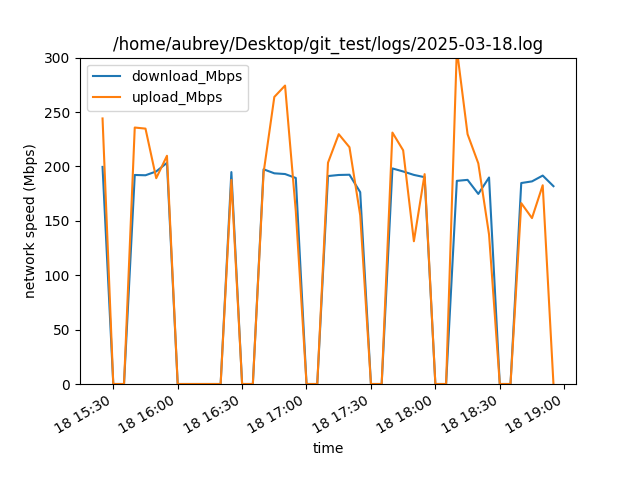
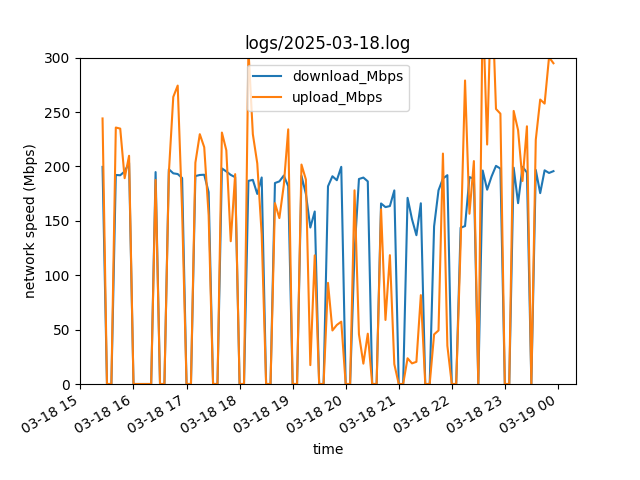
added by process_speedtest_log.sh

diff --git a/test.py b/test.py
@@ -4,12 +4,11 @@ import pandas as pd
 import matplotlib.pyplot as plt
 import matplotlib.dates as md
 import glob
-
-LOG_PATH = '/home/aubrey/Desktop/git_test/logs/2025-03-19.log'
+import os
 
 def process_log(log_path):
     # Read the log file
-    with open(LOG_PATH) as f:
+    with open(log_path) as f:
         lines = f.readlines()
 
     # Parse the log data, extracting timestamp, download_Mbps, and upload_Mbps using regular expressions.
@@ -37,7 +36,7 @@ def process_log(log_path):
     df['HM'] = df['timestamp'].dt.strftime('%H:%M')
     df['download_Mbps'] = df['download_Mbps'].astype(float)
     df['upload_Mbps'] = df['upload_Mbps'].astype(float)
-    ic(df)
+    # ic(df)
 
     # xformatter = md.DateFormatter('%H:%M')
     # Plot the data and save as PNG
@@ -45,15 +44,28 @@ def process_log(log_path):
         x='timestamp',
         y=['download_Mbps', 'upload_Mbps'],
         ylim=[0,300],
-        title=LOG_PATH,
+        title=log_path,
         xlabel='time',
         ylabel='network speed (Mbps)'
     );
     plt.gcf().autofmt_xdate()
-    plt.savefig(LOG_PATH.replace('.log', '.png'))
+    plt.savefig(log_path.replace('.log', '.png'))
 
 # MAIN
 
-loglist = sorted(glob.glob('logs/*.log'))
-ic(loglist)
+log_paths = sorted(glob.glob('logs/*.log'))
+for log_path in log_paths:
+    png_path = log_path.replace('.log', '.png')
+    png_path_exists = os.path.exists(png_path)
+
+    if png_path_exists:
+        # If the log file was modified after the png figure was modified, update the png
+        if os.path.getmtime(log_path) > os.path.getmtime(png_path):
+            ic(f'processing {log_path}')
+            process_log(log_path)
+    else:
+        # If a png figure does not exist for a log file, create one
+        ic(f'processing {log_path}')
+        process_log(log_path)
+
 ic('Finished')
